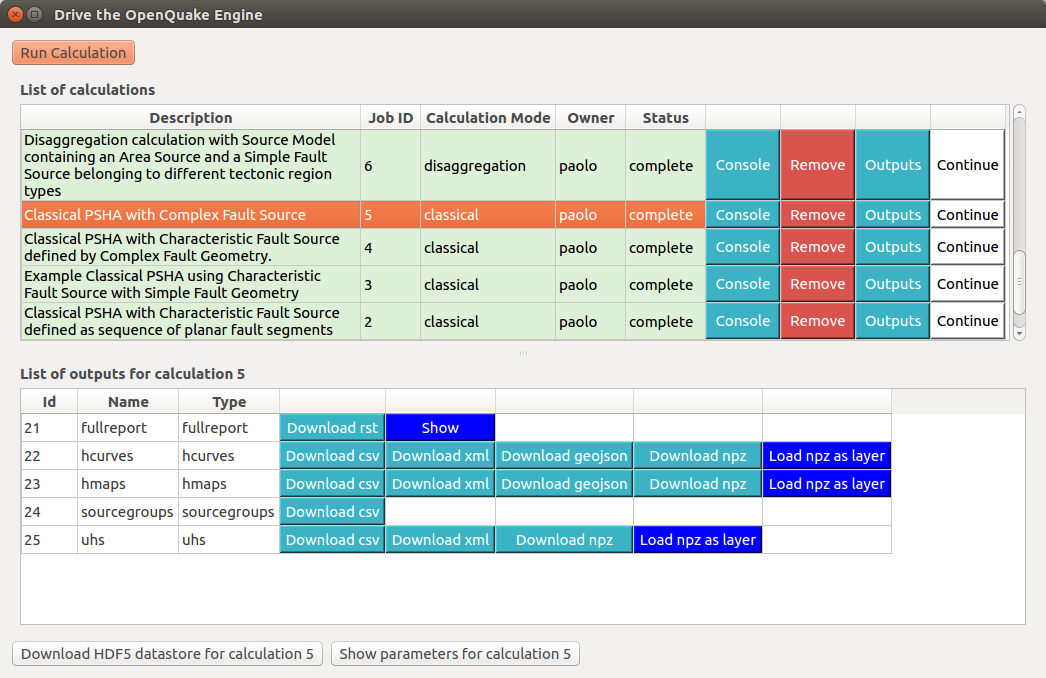
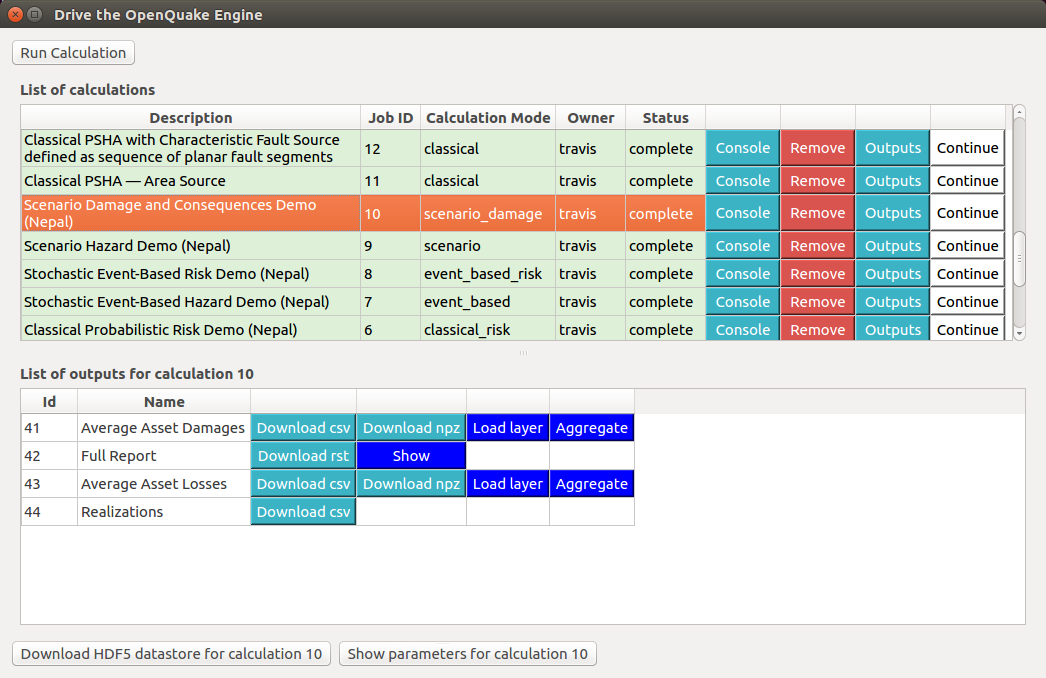
Update screenshots of curves and add description of calc params

diff --git a/svir/help/source/14_driving_the_oqengine.rst b/svir/help/source/14_driving_the_oqengine.rst
@@ -110,6 +110,19 @@ calculation. When the :guilabel:`Outputs` button is pressed, the
 the file is downloaded and its full path is displayed both in the QGIS message
 bar and in the :guilabel:`Log Messages Panel`.
 
+Another button that becomes available when a calculation identified as `N`
+is selected is :guilabel:`Show parameters of calculation N`. It opens a dialog
+window with a text area displaying the parameters of the calculation
+(see :ref:`fig-calculation-parameters`).
+
+.. _fig-calculation-parameters:
+
+.. figure:: images/calculationParameters.png
+    :align: center
+    :scale: 60%
+
+    Example showing parameters of a OQ-Engine calculation
+
 A hazard map defines the geographic distribution of the values of a scalar IMT
 (see also :ref:`chap-definitions`) characterized by a fixed probability of
 being exceeded at least once in a time span T. For computing a hazard map with
